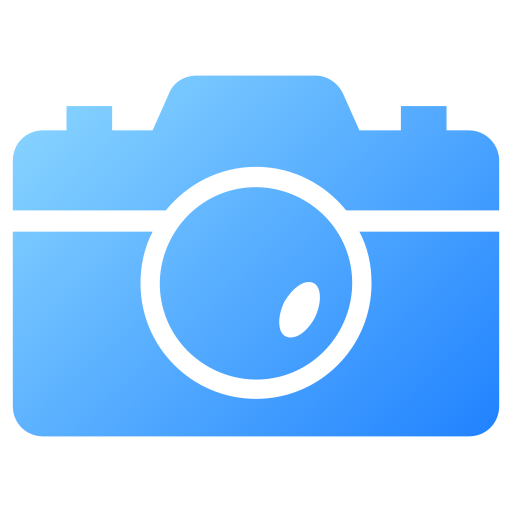
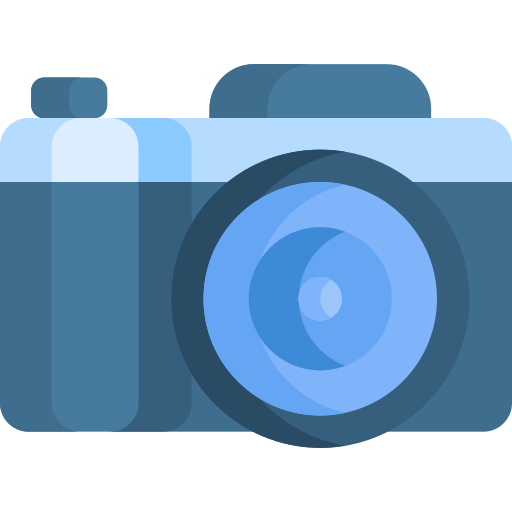
rating and info

diff --git a/src/main/frontend/index.html b/src/main/frontend/index.html
@@ -21,8 +21,8 @@ This file is auto-generated by Vaadin.
   <meta property="og:title"       content="PhotoAct.net – Photography Community" />
   <meta property="og:description" content="A community site where photographers exchange info, share events, learnings, photos and albums to improve their photography skills." />
   <meta property="og:url"         content="https://photoact.net/" />
-  <meta property="og:image"       content="https://photoact.net/static/photographerM.jpg" />
-  <meta property="og:image:secure_url" content="https://photoact.net/static/photographerM.jpg" />
+  <meta property="og:image"       content="https://photoact.net/static/photographer.jpg" />
+  <meta property="og:image:secure_url" content="https://photoact.net/static/photographer.jpg" />
   <meta property="og:image:type"  content="image/jpeg" />
   <meta property="og:image:width" content="1200" />
   <meta property="og:image:height" content="630" />
@@ -33,7 +33,7 @@ This file is auto-generated by Vaadin.
   <meta name="twitter:site"        content="@photoact" />
   <meta name="twitter:title"       content="PhotoAct.net – Photography Community" />
   <meta name="twitter:description" content="A community site where photographers exchange info, share events, learnings, photos and albums to improve their photography skills." />
-  <meta name="twitter:image"       content="https://photoact.net/static/photographerM.jpg" />
+  <meta name="twitter:image"       content="https://photoact.net/static/photographer.jpg" />
   <meta name="twitter:image:alt"   content="Sketch of a photographer – PhotoAct.net community" />
 
   <!-- Pinterest Rich Pins -->
@@ -47,7 +47,7 @@ This file is auto-generated by Vaadin.
     "name": "PhotoAct.net",
     "url": "https://photoact.net/",
     "description": "A community site where photographers exchange info, share events, learnings, photos and albums to improve their photography skills.",
-    "image": "https://photoact.net/static/photographerM.jpg"
+    "image": "https://photoact.net/static/photographer.jpg"
   }
   </script>
 

diff --git a/src/main/frontend/themes/my-app/views/photo-lightbox.css b/src/main/frontend/themes/my-app/views/photo-lightbox.css
@@ -78,14 +78,7 @@
 
 .plv-tag-chip { cursor: pointer; }
 
-/* ── Action row (like + rate buttons) ───────────────────────────────────── */
 
-.plv-action-row {
-    display: flex;
-    align-items: center;
-    gap: 8px;
-    padding: 4px 0 2px;
-}
 
 /* ── Info-panel tabs ────────────────────────────────────────────────────── */
 
@@ -113,11 +106,13 @@
     transition: color 0.18s, background 0.18s, border-color 0.18s;
     padding: 0 8px;
     cursor: pointer;
+    -moz-border-radius-topleft: 6px;
 }
 
 .plv-panel-tabs vaadin-tab:hover {
     background: rgba(0, 0, 0, 0.04);
     color: var(--lumo-body-text-color, #444);
+    cursor: pointer;
 }
 
 /* Selected tab — attribute is set by Vaadin on the host element */
@@ -130,8 +125,8 @@
 
 /* Icon inside the Rate It tab */
 .plv-panel-tabs vaadin-tab vaadin-icon {
-    width: 1em;
-    height: 1em;
+    width: 2.1em;
+    height: 2.1em;
     flex-shrink: 0;
 }
 

diff --git a/src/main/java/com/photo/act/photo_act/views/PhotoLightboxView.java b/src/main/java/com/photo/act/photo_act/views/PhotoLightboxView.java
@@ -389,7 +389,7 @@ public class PhotoLightboxView extends VerticalLayout
             }
             log.warn("Photo file not found: {}", strPathLargePhotos + dirChar + nameNew);
         }
-        photoFrame.setFallback("/static/photographerM.jpg");
+        photoFrame.setFallback("/static/photographer.jpg");
     }
 
     private static int parseIntSafe(String s) {
@@ -453,19 +453,13 @@ public class PhotoLightboxView extends VerticalLayout
         tagsRow.addClassName("plv-tags-row");
         commentsDiv.setWidthFull();
 
-        // ── Always-visible header: title + photographer card + action buttons ──
-        HorizontalLayout actionRow = new HorizontalLayout(likeButton, rateButton);
-        actionRow.addClassName("plv-action-row");
-        actionRow.setPadding(false);
-        actionRow.setSpacing(true);
+
 
         // ── Tabs (below the photographer card) ────────────────────────────────
-        tabMeta = new Tab("Info");
-        tabRate = new Tab(VaadinIcon.STAR_O.create(), new Span("Rate It"));
+        tabMeta = new Tab(FontAwesome.Solid.INFO.create(), new Span("Info"));
+        tabRate = new Tab(FontAwesome.Solid.STAR.create(), new Span("Rate It"));
         panelTabs = new Tabs(tabMeta, tabRate);
-        panelTabs.setWidthFull();
         panelTabs.addClassName("plv-panel-tabs");
-        panelTabs.addThemeVariants(TabsVariant.LUMO_SMALL, TabsVariant.LUMO_EQUAL_WIDTH_TABS);
 
         // ── Info tab content: only EXIF + tags (title/author always visible above) ─
         metaContent = new VerticalLayout(exifGrid, tagsRow);
@@ -494,7 +488,7 @@ public class PhotoLightboxView extends VerticalLayout
 
         // Panel: title + author card always on top, then tabs, then tab content
         VerticalLayout panel = new VerticalLayout(
-                photoTitle, authorSpan, actionRow,
+                photoTitle, authorSpan,
                 panelTabs,
                 metaContent, ratingContent);
         panel.setWidthFull();

diff --git a/src/main/java/com/photo/act/photo_act/views/HomeView.java b/src/main/java/com/photo/act/photo_act/views/HomeView.java
@@ -267,10 +267,10 @@ public class HomeView extends Main implements HasUrlParameter<String>, BeforeEnt
         Div divMainImage = new Div();
         divMainImage.setWidthFull();
         divMainImage.setHeight("auto");
-        divMainImage.setMaxWidth("47rem");
-        divMainImage.setMaxHeight("24rem");
+        divMainImage.setMaxWidth("44rem");
+        divMainImage.setMaxHeight("30rem");
         Image mainImage = new Image();
-        String strMainImagePath = DIR_PHOTOS_SERVER + dirChar + "photographerM.jpg";
+        String strMainImagePath = DIR_PHOTOS_SERVER + dirChar + "photographer.png";
 
 
         Path path = Paths.get(strMainImagePath);

diff --git a/src/main/java/com/photo/act/photo_act/seo/SitemapController.java b/src/main/java/com/photo/act/photo_act/seo/SitemapController.java
@@ -106,7 +106,7 @@ public class SitemapController {
         // Add more static pages here as your site grows:
          appendUrl(xml, baseUrl + "/photos",   today, "weekly", "0.7", null, null, null);
          appendUrl(xml, baseUrl + "/stories", today, "monthly", "0.6", null, null, null);
-        appendUrl(xml, baseUrl + "/learnings", today, "weekly", "0.7", null, null, null);
+        appendUrl(xml, baseUrl + "/news", today, "weekly", "0.7", null, null, null);
         appendUrl(xml, baseUrl + "/photographers", today, "monthly", "0.6", null, null, null);
         appendUrl(xml, baseUrl + "/events", today, "monthly", "0.5", null, null, null);
 

diff --git a/src/main/java/com/photo/act/photo_act/PhotoActApplication.java b/src/main/java/com/photo/act/photo_act/PhotoActApplication.java
@@ -36,7 +36,7 @@ public class PhotoActApplication implements AppShellConfigurator {
 //        settings.addFavIcon("icon", "/static/favicon.ico", "32x32");
 
         // Default OG image — shown when no specific content meta is set
-        settings.addMetaTag("og:image", "https://www.photoact.net/static/photographerM.jpg");
+        settings.addMetaTag("og:image", "https://www.photoact.net/static/photographer.jpg");
         settings.addMetaTag("og:image:width",  "1200");
         settings.addMetaTag("og:image:height", "630");
 //        settings.setPageTitle("YourSiteName — Discover Amazing Content");

diff --git a/src/main/java/com/photo/act/photo_act/views/LoginView.java b/src/main/java/com/photo/act/photo_act/views/LoginView.java
@@ -107,7 +107,7 @@ public class LoginView extends VerticalLayout implements BeforeEnterObserver, Ha
 
         Div divMainImage = new Div();
         Image mainImage = new Image();
-        String strMainImagePath = DIR_PHOTOS_SERVER + dirChar + "photographerM.jpg";
+        String strMainImagePath = DIR_PHOTOS_SERVER + dirChar + "photographer.png";
 
         Path path = Paths.get(strMainImagePath);
         File file = path.toFile();

diff --git a/src/main/java/com/photo/act/photo_act/views/MainLayout.java b/src/main/java/com/photo/act/photo_act/views/MainLayout.java
@@ -51,7 +51,7 @@ import java.net.UnknownHostException;
 
 public class MainLayout extends AppLayout{
 
-    public static final String APP_VERSION = "2026.04.1.14";
+    public static final String APP_VERSION = "2026.06.1.02";
     public static final String APP_NAME = "PhotoAct.net";
     public static final String baseUrl = "https://photoact.net";
     public static final String baseMoto = "Through Photography, We Connect and Act";

diff --git a/src/main/java/com/photo/act/photo_act/seo/OgBotInterceptor.java b/src/main/java/com/photo/act/photo_act/seo/OgBotInterceptor.java
@@ -26,7 +26,7 @@ import java.util.Set;
 public class OgBotInterceptor implements HandlerInterceptor {
 
     private static final Set<String> CONTENT_TYPES = Set.of(
-            "photographer", "album", "photo", "event", "learning", "article", "story", "news"
+            "photographer", "stories", "photo", "news"
     );
 
     private final BotDetectionService botDetectionService;
